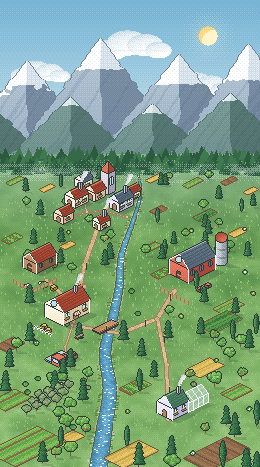
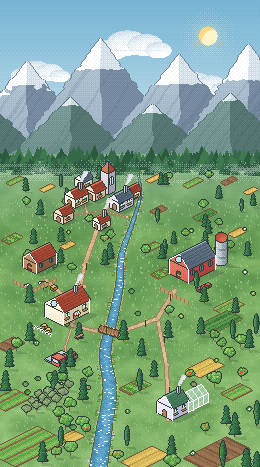
FattorIA: map bridge crosses the river at a right angle; no field in the river
The bridge is laid across the river's flow (planks, railings, posts, a shadow) and the
road runs onto both ends. The front wheat field moved onto the bank; mapgen warns if a
field ever touches the river.

diff --git a/tools/pixelart/mapgen.py b/tools/pixelart/mapgen.py
@@ -812,31 +812,65 @@ class Map:
             (352, 356, 38, 20, 'wheat'), (14, 366, 40, 22, 'veg'), (98, 374, 30, 16, 'wheat'), (226, 376, 30, 18, 'crop'),
             (238, 418, 34, 20, 'veg'), (336, 472, 44, 24, 'crop'), (320, 500, 60, 32, 'vine'), (10, 528, 36, 22, 'soil'),
             (196, 592, 36, 20, 'veg'), (300, 566, 44, 26, 'wheat'), (350, 600, 34, 22, 'crop'), (8, 616, 44, 28, 'crop'),
-            (96, 670, 32, 18, 'wheat'), (24, 700, 76, 44, 'crop'), (186, 702, 52, 30, 'wheat'), (312, 706, 64, 36, 'soil'),
+            (96, 670, 32, 18, 'wheat'), (24, 700, 76, 44, 'crop'), (208, 706, 46, 26, 'wheat'), (312, 706, 64, 36, 'soil'),
         ]
         for (x, y, w, d, k) in FIELDS:
             cols, rows, step = KINDS[k]
             sc = s.field_scale(y)
             s.iso_rows(x, y, w, d, cols, rows, step, sc)
             p = s.field_poly(x, y, w, d, sc)
+            for yy in range(int(min(q[1] for q in p)), int(max(q[1] for q in p)) + 1):
+                rx, rw = s.river_x(yy), s.river_w(yy)
+                if any(pip(xx, yy, p) for xx in range(int(rx - rw / 2 - 3), int(rx + rw / 2 + 4))):
+                    print('WARNING: field in the river', (x, y, w, d, k))
+                    break
             s.blocked.append([(px_ + (px_ - p[0][0]) * 0.05, py_) for (px_, py_) in p])
         # roads: farm tracks and the village streets
         s.road([(148, 336), (126, 398), (108, 488)], 8)
         s.road([(70, 420), (100, 446), (126, 430)], 6)
-        s.road([(108, 488), (180, 500), (236, 478), (262, 436)], 8)
         s.road([(236, 478), (250, 548), (252, 628)], 7)
         s.road([(148, 336), (156, 316), (170, 300), (186, 292)], 5)
         s.road([(104, 324), (130, 318), (156, 316), (190, 326)], 4.5)
         s.road([(130, 318), (126, 296), (138, 284)], 4)
         s.road([(108, 488), (98, 520), (100, 536)], 5)
+        _by = 497
+        _bx, _bw = s.river_x(_by), s.river_w(_by)
+        s.road([(108, 488), (_bx - _bw / 2 - 10, _by)], 8)
+        s.road([(_bx + _bw / 2 + 10, _by), (236, 478), (262, 436)], 8)
+        # the bridge: at a right angle to the river's flow there, the road meets both ends
         by = 497
         bx, bw = s.river_x(by), s.river_w(by)
-        s.slab(bx - bw / 2 - 5, by + 4, bw + 10, 10, 2, T['ROOFS']['wood'][1], T['ROOFS']['wood'][0])
-        n = int((bw + 10) / 3)
-        for k in range(n + 1):
-            px_ = bx - bw / 2 - 5 + k * 3
-            s.c.line(px_ * S, (by + 4 - k * 1.5 - 2) * S, px_ * S, (by + 4 - k * 1.5 - 6) * S, T['WALLS']['wood'][0][0])
-        s.c.line((bx - bw / 2 - 5) * S, (by - 2) * S, (bx + bw / 2 + 5) * S, (by - 2 - (bw + 10) / 2) * S, T['ROOFS']['wood'][1][2])
+        tx, ty = (s.river_x(by + 1) - s.river_x(by - 1)) / 2, 1.0        # flow direction
+        tl = math.hypot(tx, ty)
+        tx, ty = tx / tl, ty / tl
+        nx, ny = ty, -tx                                                  # across the river
+        half, deck = bw / 2 + 6, 4.5
+        L = (bx - nx * half, by - ny * half)
+        Rt = (bx + nx * half, by + ny * half)
+        s.bridge_ends = (L, Rt)
+        corners = [(L[0] - tx * deck, L[1] - ty * deck), (Rt[0] - tx * deck, Rt[1] - ty * deck),
+                   (Rt[0] + tx * deck, Rt[1] + ty * deck), (L[0] + tx * deck, L[1] + ty * deck)]
+        wd = T['ROOFS']['wood']
+        s.shadow([(c[0] + 1.5, c[1] + 3) for c in corners], 0.35)
+        sp = [s.P(*c) for c in corners]
+
+        def plank(px_, py_):
+            X, Y = px_ / S - bx, py_ / S - by
+            along = X * nx + Y * ny
+            return wd[0][2] if int(math.floor(along / 2.0)) % 2 else wd[1][1]
+        s.c.poly(sp, plank, T['OL'])
+        # railings with posts on both sides
+        for side in (-1, 1):
+            ox, oy = tx * deck * side, ty * deck * side
+            a = (L[0] + ox, L[1] + oy - 3)
+            b = (Rt[0] + ox, Rt[1] + oy - 3)
+            s.c.line(a[0] * S, a[1] * S, b[0] * S, b[1] * S, wd[1][2])
+            n = max(2, int(half * 2 / 5))
+            for k in range(n + 1):
+                t = k / n
+                px_ = L[0] + (Rt[0] - L[0]) * t + ox
+                py_ = L[1] + (Rt[1] - L[1]) * t + oy
+                s.c.line(px_ * S, py_ * S, px_ * S, (py_ - 3) * S, wd[0][0])
         s.items = []
         # the village, a little smaller (it is further away), with streets between the houses
         k = 0.84
